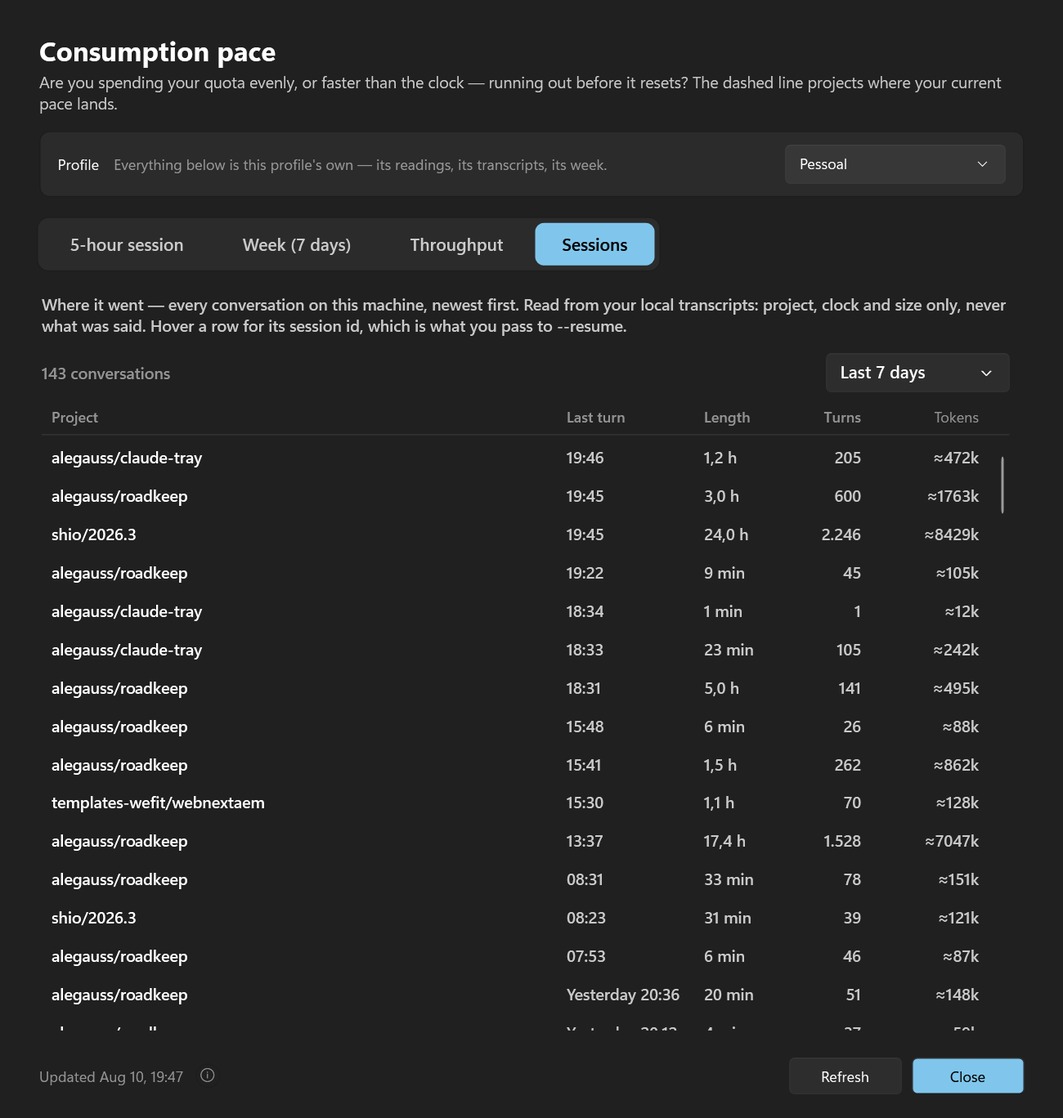
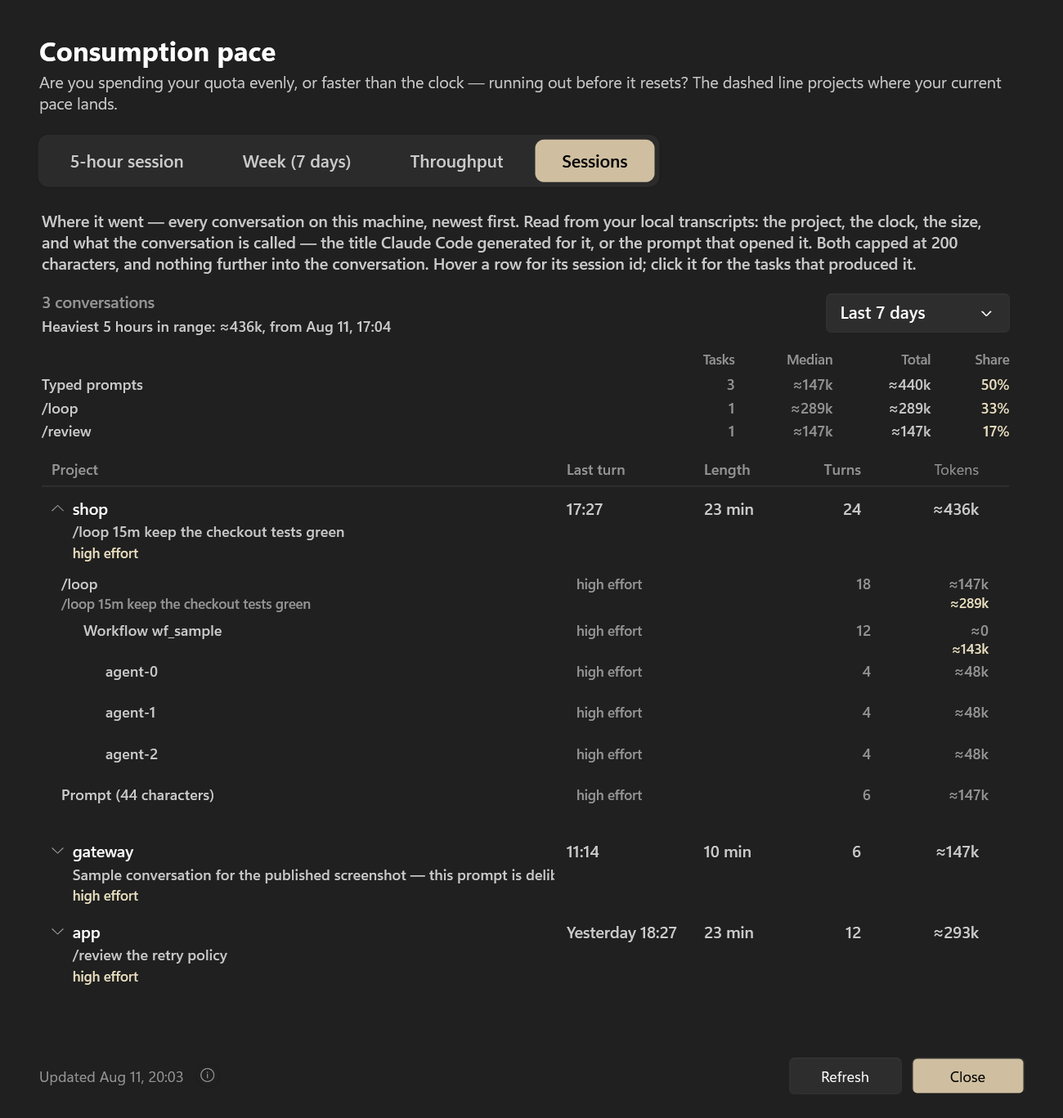
fix: a published shot of the Sessions pane comes from an invented tree, not from this machine (T335)
- fix: ensure that published screenshots of the Sessions pane are generated from a synthetic tree to avoid exposing real user prompts.
- add a new `SessionFixture` that creates a controlled environment for the Sessions pane, ensuring all data is invented and not tied to any actual user sessions.
- update the `CHANGELOG` and `IMPROVEMENTS` documentation to reflect the changes made for T335, clarifying the need for synthetic data in published captures.
- modify the `StatisticsPage` and related components to utilize the new fixture, ensuring that the correct synthetic data is displayed during captures.
- implement checks to verify that the published captures are indeed generated from the synthetic data, preventing any real user data from being included in public repositories.

diff --git a/src/Usage/SessionFixture.cs b/src/Usage/SessionFixture.cs
@@ -1,0 +1,135 @@
+namespace ClaudeTray;
+
+/// <summary>
+/// A synthetic <c>projects/</c> tree for the Sessions pane, so a published screenshot of it is a
+/// picture of invented work and never of somebody's own (T335).
+///
+/// <para><b>Why this exists at all.</b> <c>--capture-stats</c> renders that pane from the monitored
+/// profile, and since T334 the pane carries the opening prompt of every conversation. So the one
+/// command that produces a screenshot for <c>README.md</c> and the published page produced one holding
+/// this machine's real prompts, into a public repository. §I.1's amendment permits the prompt <em>on
+/// the user's own screen</em>; it says nothing about a picture of that screen in a git history, which
+/// is a different promise and a worse one to break — a screenshot cannot be un-published.</para>
+///
+/// <para>The precedent is <see cref="AccountFixture"/>, written for exactly this shape of problem: a
+/// published shot of the System page would carry this machine's login, so it is taken over a fixture
+/// instead. The rule both follow is that the fixture must be the <b>easy</b> path, not the careful
+/// one — nothing can check whether somebody committed a PNG anyway.</para>
+///
+/// <para>What it puts on screen is chosen to exercise the pane rather than to look tidy: several
+/// projects so the list is worth sorting, a fan-out under one conversation so a row folds its agents
+/// in, both task kinds so the by-kind table has more than one row, and one prompt longer than
+/// <see cref="SessionIndex.PromptChars"/> so the truncation is visible rather than assumed.</para>
+/// </summary>
+internal static class SessionFixture
+{
+    /// <summary>Somewhere the user's name is not in the path, because these screenshots get published —
+    /// the same question <see cref="ContextFixture"/> and <see cref="AccountFixture"/> ask.</summary>
+    public static string Root => Path.Combine(SampleRoot.For("ClaudeTray-sample"), "sessions", "projects");
+
+    /// <summary>Obviously invented, and obviously not a real ask: a reader of the screenshot should never
+    /// wonder whether they are looking at somebody's actual work.</summary>
+    private const string Long =
+        "Sample conversation for the published screenshot — this prompt is deliberately longer than the " +
+        "two hundred characters the index keeps, so the row it produces shows the truncation working " +
+        "rather than leaving anyone to take it on trust from the documentation alone.";
+
+    /// <summary>Build the tree and return the <c>projects/</c> directory to read. Rebuilt on every call,
+    /// so a stale fixture can never be the thing that got photographed.</summary>
+    public static string Build(DateTime nowUtc)
+    {
+        if (Directory.Exists(Root))
+            try { Directory.Delete(Root, recursive: true); } catch { /* rebuilt below anyway */ }
+        Directory.CreateDirectory(Root);
+
+        // Deterministic clocks, counted back from "now" so the pane's relative times ("Yesterday
+        // 14:05") render the way they will for a reader rather than as a fixed date in the past.
+        DateTime t0 = nowUtc.AddHours(-3);
+
+        Session("D--Sample-web-shop", "sample-web-shop", t0, new[]
+        {
+            Ask("/loop", "15m keep the checkout tests green"),
+            Ask("", "Add a currency formatter to the cart summary"),
+        }, fanOut: true);
+
+        Session("D--Sample-api-gateway", "sample-api-gateway", nowUtc.AddHours(-9), new[]
+        {
+            Ask("", Long),
+        });
+
+        Session("D--Sample-notes-app", "sample-notes-app", nowUtc.AddDays(-1).AddHours(-2), new[]
+        {
+            Ask("/review", "the retry policy"),
+            Ask("", "Why does the sync run twice on resume?"),
+        });
+
+        return Root;
+    }
+
+    private static (string Command, string Text) Ask(string command, string text) => (command, text);
+
+    /// <summary>One conversation: a person-ask, an answer, and — where asked for — a fan-out written
+    /// under the session's own folder, which is the layout <see cref="TranscriptTail.Locate"/> reads.</summary>
+    private static void Session(string slug, string name, DateTime start,
+                                (string Command, string Text)[] asks, bool fanOut = false)
+    {
+        string dir = Path.Combine(Root, slug);
+        Directory.CreateDirectory(dir);
+        string session = $"sample-{name}";
+        var lines = new List<string>();
+        DateTime at = start;
+
+        foreach ((string command, string text) in asks)
+        {
+            // A slash command is not "text that starts with /": the harness writes its own
+            // <command-name> markup and that tag is what the ask reader keys on, so a fixture that
+            // typed the slash would produce a table with no command row in it — which is exactly what
+            // the check reported before this line was right.
+            lines.Add(User(at, command.Length > 0
+                ? $"<command-name>{command}</command-name><command-args>{text}</command-args>"
+                : text));
+            at = at.AddMinutes(1);
+            for (int i = 0; i < 6; i++)
+            {
+                lines.Add(Assistant(at, $"{session}-{lines.Count}", 3_500 + i * 900, name));
+                at = at.AddMinutes(2);
+            }
+        }
+        File.WriteAllLines(Path.Combine(dir, session + ".jsonl"), lines);
+
+        if (!fanOut) return;
+
+        // Agents file under <slug>/<session>/wf_.../<agent>.jsonl — their spend folds into the row,
+        // which is the behaviour a one-row-per-conversation list is claiming on screen.
+        string flow = Path.Combine(dir, session, "wf_sample");
+        Directory.CreateDirectory(flow);
+        for (int a = 0; a < 3; a++)
+        {
+            var agent = new List<string>();
+            DateTime t = start.AddMinutes(4 + a);
+            for (int i = 0; i < 4; i++)
+            {
+                agent.Add(Assistant(t, $"{session}-agent{a}-{i}", 2_200 + i * 400, name));
+                t = t.AddMinutes(1);
+            }
+            File.WriteAllLines(Path.Combine(flow, $"agent-{a}.jsonl"), agent);
+        }
+    }
+
+    private static string Stamp(DateTime t) =>
+        t.ToUniversalTime().ToString("yyyy-MM-ddTHH:mm:ss.fffZ",
+                                     System.Globalization.CultureInfo.InvariantCulture);
+
+    private static string User(DateTime t, string text) =>
+        $"{{\"type\":\"user\",\"timestamp\":\"{Stamp(t)}\",\"message\":{{\"role\":\"user\"," +
+        $"\"content\":{System.Text.Json.JsonSerializer.Serialize(text)}}}}}";
+
+    private static string Assistant(DateTime t, string id, int output, string name) =>
+        $"{{\"type\":\"assistant\",\"timestamp\":\"{Stamp(t)}\",\"requestId\":\"{id}\"," +
+        $"\"effort\":\"high\",\"cwd\":\"D:\\\\Sample\\\\{name}\"," +
+        $"\"message\":{{\"id\":\"msg-{id}\",\"model\":\"claude-sample-5\",\"usage\":{{" +
+        $"\"input_tokens\":{output / 4},\"output_tokens\":{output}," +
+        $"\"cache_creation_input_tokens\":{output * 3}," +
+        $"\"cache_creation\":{{\"ephemeral_1h_input_tokens\":{output * 3},\"ephemeral_5m_input_tokens\":0}}," +
+        $"\"cache_read_input_tokens\":{output * 12}}}}}}}";
+}

diff --git a/src/Cli/SelfTestCli.cs b/src/Cli/SelfTestCli.cs
@@ -249,6 +249,12 @@ internal static class SelfTestCli
         Section("kinds — which kind of work ate the range (Block AK)");
         Kinds();
 
+        Section("fixture — the Sessions pane a published shot may come from (Block AI)");
+        SessionsFixture();
+
+        Section("dates — a month name in the language the window is in (Block AI)");
+        DateCulture();
+
         Section("anchoring — a transcript reached by a route nobody walked (Block AK)");
         Anchoring();
 
@@ -6943,6 +6949,81 @@ internal static class SelfTestCli
         Check("a command is labelled by its own name and a kind by the string table",
               WorkKinds.Label(loop) == "/loop" &&
               WorkKinds.Label(prompts) != "stats.kind.prompt", WorkKinds.Label(prompts));
+    }
+
+    /// <summary>A month name formatted through whatever culture the machine happens to run under, in a
+    /// window the user asked for in another language. Caught by looking at a published capture — an
+    /// English shot reading <c>ago. 11</c> — which no assertion here was pointed at (T335).</summary>
+    private static void DateCulture() =>
+        Repo("every date the window formats goes through the UI language's culture", root =>
+        {
+            string ui = Path.Combine(root, "src", "Ui");
+            var bare = new List<string>();
+            foreach (string path in Directory.GetFiles(ui, "*.cs", SearchOption.AllDirectories))
+            {
+                string code = CodeOf(File.ReadAllText(path));
+                foreach (Match m in Regex.Matches(code, @"ToString\(""[^""]*(MMM|dddd|ddd)[^""]*""(?<arg>[^)]*)\)"))
+                    if (!m.Groups["arg"].Value.Contains("Culture", StringComparison.Ordinal))
+                        bare.Add($"{Path.GetFileName(path)}: {m.Value}");
+            }
+            Check($"no month or weekday is formatted in the machine's own culture ({bare.Count} bare)",
+                  bare.Count == 0,
+                  $"{string.Join("; ", bare)} — a window in one language printing a month in another is " +
+                  "what a published screenshot showed; pass L.DateCulture");
+        }, "src");
+
+    /// <summary>
+    /// T335. The fixture a published shot of the Sessions pane comes from, and the two things about it
+    /// that a check can hold.
+    ///
+    /// <para><b>What it cannot hold</b>, said first because it decides what the rest is worth: nothing
+    /// here can tell whether somebody committed a PNG taken from their own profile. That is why the
+    /// fixture has to be the <em>easy</em> path — a named preview both flags already read — rather than
+    /// a careful one. What is checkable is that the easy path exists, reads its invented tree, and
+    /// produces a pane worth photographing.</para>
+    ///
+    /// <para>So: the preview exists and is capturable, and the tree it builds exercises the pane rather
+    /// than merely populating it — several conversations, a fan-out folded into its parent row, both
+    /// task kinds so the by-kind table has more than one row, and a prompt past the cap so the
+    /// truncation is visible in the picture instead of taken on trust.</para>
+    /// </summary>
+    private static void SessionsFixture()
+    {
+        // The variant a published capture is supposed to use. A published shot cannot come from a
+        // fixture that --capture-stats refuses to render.
+        if (!Check("the Sessions pane has a preview a capture can use",
+                   StatsPreviews.Resolve(new[] { "sessions" }, capturing: true) is { } c && c.Variant.Sessions,
+                   "no capturable 'sessions' preview — a published shot would have to come from the real pane"))
+            return;
+
+        string root = SessionFixture.Build(new DateTime(2026, 3, 2, 12, 0, 0, DateTimeKind.Utc));
+        IReadOnlyList<SessionRow> rows = SessionIndex.Load(null, root);
+
+        if (!Check($"it reads as a list of conversations ({rows.Count})", rows.Count >= 3,
+                   "fewer than three rows is not a list worth a screenshot"))
+            return;
+
+        // A fan-out folded into the row that spawned it is the claim the pane makes on screen, so the
+        // picture has to contain one.
+        Check("one conversation folds a fan-out into its own row",
+              rows.Any(r => r.Agents > 0), string.Join(", ", rows.Select(r => $"{r.Name}:{r.Agents}")));
+
+        // Both kinds, or the by-kind table under the list is one row and shows nothing.
+        IReadOnlyList<WorkGroup> kinds = WorkKinds.Of(rows.SelectMany(r => r.Tasks ?? Array.Empty<TaskRow>()));
+        Check("and the by-kind table has a command and a typed prompt to compare",
+              kinds.Any(g => g.IsCommand) && kinds.Any(g => g.Kind == nameof(TaskKind.Prompt)),
+              string.Join(", ", kinds.Select(g => $"{g.Kind}/{g.Name}")));
+
+        // The truncation is a claim the README makes about this pane; the shot should show it working.
+        // At the cap, not exactly it: the stored form carries the mark that says it was cut.
+        Check($"a prompt long enough to be truncated is on screen ({SessionIndex.PromptChars})",
+              rows.Any(r => r.Prompt.Length >= SessionIndex.PromptChars),
+              string.Join(", ", rows.Select(r => r.Prompt.Length)));
+
+        // And the whole point: nothing in the picture came from a real profile.
+        Check("every row in it is invented, not this machine's",
+              rows.All(r => r.Session.StartsWith("sample-", StringComparison.Ordinal)),
+              string.Join(", ", rows.Select(r => r.Session).Where(s => !s.StartsWith("sample-"))));
     }
 
     /// <summary>One assistant line in the shape the transcript readers parse — a timestamp, a usage

diff --git a/src/Ui/StatisticsPage.Sessions.cs b/src/Ui/StatisticsPage.Sessions.cs
@@ -74,7 +74,7 @@ internal partial class StatisticsPage
         System.Threading.Tasks.Task.Run(() =>
         {
             IReadOnlyList<SessionRow> rows;
-            try { rows = SessionIndex.Load(profile); }
+            try { rows = SessionIndex.Load(profile, PreviewSessionsRoot); }
             catch { rows = Array.Empty<SessionRow>(); }   // an unreadable tree is an empty list, not a crash
             Dispatcher.BeginInvoke(() =>
             {
@@ -114,7 +114,7 @@ internal partial class StatisticsPage
         System.Threading.Tasks.Task.Run(() =>
         {
             IReadOnlyList<TaskNode> tasks;
-            try { tasks = SessionTasks.For(model, profile); }
+            try { tasks = SessionTasks.For(model, profile, PreviewSessionsRoot); }
             catch { tasks = Array.Empty<TaskNode>(); }   // an unreadable transcript closes the row, never crashes
             var lines = new List<TaskLine>();
             foreach (TaskNode t in tasks) Flatten(t, 0, lines);
@@ -167,7 +167,7 @@ internal partial class StatisticsPage
         System.Threading.Tasks.Task.Run(() =>
         {
             IReadOnlyList<TaskNode> tasks;
-            try { tasks = SessionTasks.For(model, profile); }
+            try { tasks = SessionTasks.For(model, profile, PreviewSessionsRoot); }
             catch { tasks = Array.Empty<TaskNode>(); }
             var lines = new List<TaskLine>();
             foreach (TaskNode t in tasks) Flatten(t, 0, lines);
@@ -244,7 +244,9 @@ internal partial class StatisticsPage
             PeakWindow peak = HeaviestWindow.Of(minutes);
             if (!peak.Found) return "";
 
-            string when = peak.StartLocal.ToString("MMM d, HH:mm");
+            // Through the UI language's culture, not the machine's: an English window rendering a
+            // Portuguese month is what the published capture caught this doing (T335).
+            string when = peak.StartLocal.ToString("MMM d, HH:mm", L.DateCulture);
             string head = L.T("stats.sessions.peak", TokenEstimate.Format(
                 (int)Math.Min(int.MaxValue, peak.Tokens)), when);
 

diff --git a/src/Cli/StatsPreviews.cs b/src/Cli/StatsPreviews.cs
@@ -39,6 +39,7 @@ internal static class StatsPreviews
         bool GhostPieces = false,
         bool Thin = false,
         bool MethodOpen = false,
+        bool Sessions = false,
         bool Error = false,
         Func<long, PaceReport>? Report = null)
     {
@@ -55,6 +56,12 @@ internal static class StatsPreviews
     private static readonly Variant[] All =
     {
         new("", "the default: a 5h session burning ahead of pace, a week comfortably on track", Sample),
+
+        // The Sessions pane off a synthetic tree. This is the variant a *published* shot of that pane
+        // must come from: the real one carries the opening prompt of every conversation on the machine,
+        // and a screenshot cannot be un-published (T335).
+        new("sessions", "the Sessions pane over an invented projects tree — the one to publish, because " +
+                        "the real pane carries this machine's own prompts", Sample, Sessions: true),
 
         new("idle", "the not-using-Claude state: a fresh 5h session at 0%, a week still carrying usage, " +
                     "so the window opens on the weekly tab",
@@ -217,6 +224,9 @@ internal static class StatsPreviews
             PreviewDemoGhostPieces = c.Variant.GhostPieces,
             PreviewDemoThin = c.Variant.Thin,
             PreviewMethodOpen = c.Variant.MethodOpen,
+            // Built here rather than in the page: the fixture is a tree on disk, and the page should
+            // not learn how to make one.
+            PreviewSessionsRoot = c.Variant.Sessions ? SessionFixture.Build(DateTime.UtcNow) : null,
         };
         // A whole hand-built report replaces the computed one, which can only happen once the page has
         // loaded — the same order the interactive preview used before this table existed.

diff --git a/src/Ui/StatisticsPage.xaml.cs b/src/Ui/StatisticsPage.xaml.cs
@@ -127,6 +127,10 @@ internal partial class StatisticsPage : System.Windows.Controls.UserControl
     /// looked at. See <c>--stats method</c>.</summary>
     internal bool PreviewMethodOpen { get; init; }
 
+    /// <summary>A synthetic <c>projects/</c> tree the Sessions pane reads instead of the profile's, for
+    /// a capture that gets published (T335). Null everywhere else, which is the real pane.</summary>
+    internal string? PreviewSessionsRoot { get; init; }
+
     /// <summary>Which profile this window is reporting on (T128). Everything it draws — the charts, the
     /// projection, the activity shape, the ghost week and the live throughput — comes from this profile's
     /// own stores and its own transcripts.</summary>

diff --git a/src/Ui/SessionListRow.cs b/src/Ui/SessionListRow.cs
@@ -90,7 +90,7 @@ public sealed class SessionListRow : INotifyPropertyChanged
             ? when.ToString("HH:mm")
             : when.Date == nowLocal.Date.AddDays(-1)
                 ? L.T("stats.sessions.yesterday", when.ToString("HH:mm"))
-                : when.ToString("MMM d, HH:mm");
+                : when.ToString("MMM d, HH:mm", L.DateCulture);
         Duration = Span(row.Seconds);
         Turns = Nums.Of(row.Calls, "N0");
         // Cache reads are out, as everywhere else a token figure is shown here: they are two orders of

diff --git a/CHANGELOG.md b/CHANGELOG.md
@@ -641,6 +641,7 @@
 - **T312** — Every doc comment is checked against the member under it, in one file walk with no compiler: a run of /// lines may hold at most one summary, and must be followed by a declaration rather than by a blank line. Both directions of the same edit. It found seven live instances on its first run, all fixed here - MeasuredProfile had lost its summary to a record, one Discover overload carried the other one text, and four checks in --selftest had swapped theirs. Two of the seven were written in this session by the author of the check: T291 put a new member above Overflow and took its documentation, and T312 did the same to ObservingTray while adding this. That rate is the argument the design made, demonstrated on itself. One hole is named rather than closed: an UNDOCUMENTED member inserted directly under a comment adopts it silently - one summary, no blank line - and telling that apart needs a parser, which this deliberately does not use.
 - **T314** — Every key the sources name is now held against the table that has to hold it, which is the one direction the parity check cannot look: it loads en and compares the other four to it, so en is the source of truth for what exists and every failure it can find is a translation gap - while an English gap has the fallback behind it and nothing else. Measured on the tree as it stands: 564 distinct keys, 488 named in code and 231 in markup. Injected before being trusted - a misspelled ternary branch in StatisticsPage and a misspelled {local:Loc} in ContextPage.xaml made it red and named both keys with the file each came from, and the five-language parity check stayed green through that same run, which is exactly the gap the task was filed on. The scan reads the whole first argument of L.T rather than the literal after the opening paren, because 67 of the 564 are written as a ternary branch or a switch arm - the legend's among them, which is the shape T313 introduced - and a regex anchored on the opening literal reaches only 497 of them; it stops at the first comma, so a format argument is not mistaken for a key. Two limits are numbers in its own summary rather than a later surprise: 7 of 447 calls build their key at run time and are invisible here, and it is a subset check in one direction only, since a key in en that no call site names is dead weight rather than a defect on screen. The walk itself is asserted against nine synthetic argument forms, each followed by a literal that must not be collected - a terminator read wrong runs past the closing paren and reports every string after it - and breaking the verbatim terminator, then the markup pattern, was watched go red before either was put back.
 - **T347** — SessionIndex.cs is a text file again, and a check keeps every source file that way. The separator it joins its cache key on was right as a value - a byte no path can contain is what an unambiguous key separator should be - and wrong as a way to write it: the source carried the literal byte instead of the C# escape that produces one, so the string is unchanged at run time and the file is no longer binary to git. What that byte cost was entirely outside the running program. Git classifies a file containing a NUL as binary, so it had no line diff, ever: T330's nine-line edit to it was reported as 1141 +++---, the sum of both versions, and a reviewer saw a file replaced rather than what changed in it. blame and add -p degrade the same way, and this repository's own grep answered binary file matches and nothing else, which cost two detours in the session that found it. It was the only one of the 92 source files under src that carried one. The check is byte-wise and deliberately not text, for the same reason the .ps1 encoding check reads bytes: the question is what a decoder does with the file, and reading it as text first answers with whichever decoder the check happened to use. Putting the byte back was watched fail before the green was trusted, and it named the file and the count. One artefact to expect once: this commit's own diff of that file still reads as a whole-file rewrite, because the blob it is compared against is the binary one; from the next change onward it diffs by line like its neighbours.
+- **T335** — A published shot of the Sessions pane now comes from an invented tree, and the shot in the repository has been retaken from it. --capture-stats renders that pane from the monitored profile, and since T334 the pane carries the opening prompt of every conversation, so the one command that makes a README screenshot made one holding this machine's real prompts - into a public repository, where a screenshot cannot be un-published. The fixture follows AccountFixture, which exists for the same reason on the System page: several conversations so the list is worth sorting, a fan-out under one of them so a row folds its agents in, both task kinds so the by-kind table has more than one row, and one prompt past the 200-character cap so the truncation is visible in the picture rather than taken on trust. It is reached as --stats sessions and --capture-stats <out> sessions, one row of the table both flags already read, because the fixture has to be the easy path rather than the careful one - nothing can check whether somebody committed a PNG anyway. Five assertions hold what is checkable: that the preview exists and is capturable, that it reads as a list, that a fan-out folds in, that the table has a command and a typed prompt to compare, that a truncated prompt is on screen, and that every row is invented. Two of them failed first and both were the fixture being wrong about the app rather than the other way round: a slash command is not text beginning with a slash but the harness's own command-name markup, so the by-kind table came back with no command row in it, and the stored prompt sits at the cap plus the mark that says it was cut. Looking at the capture then found what no assertion was pointed at: the shot came out reading ago. 11 - a Portuguese month in an English window - because two date formats went through the machine's culture instead of the UI language's. Both now pass L.DateCulture, one of them a line this task did not write, and a source scan over src/Ui keeps every month and weekday name that way; putting a bare format back was watched name the file and the call. The published PNG is retaken in English from the fixture, and the three other published shots it would otherwise have overwritten were restored rather than left in Portuguese.
 
 ## Block AJ — Working here — the repo's own docs and flags
 

diff --git a/.claude/skills/file-map/SKILL.md b/.claude/skills/file-map/SKILL.md
@@ -67,6 +67,7 @@ One file per flag family; `Main` dispatches, these run and exit.
 | `src/Usage/ActivityShape.cs` | The weekly projection spent along that shape: calibrated per *measured active hour*, flat through usually-idle stretches, sloped through working ones. Returns null (→ the old straight line) when the profile is thin or the window can't be calibrated. Weekly only. |
 | `src/Usage/TranscriptTail.cs` | Byte-level tail over `~/.claude/projects/**/*.jsonl`: watcher + 3s floor sweep, a per-file cursor that only advances past a newline, and de-duplication by `requestId`. The watcher's paths are the sweep's **work list**; the whole tree is walked only every 30s (`ReconcileMs`), or on every sweep when there is no watcher. Reports each assistant turn within ~250ms for the cost of the appended bytes. `--tail`. |
 | `src/Usage/LiveRate.cs` | The rolling tokens/s over that tail: an age-weighted 60s window (triangular kernel, so a pause decays from the moment it starts) with attack-only smoothing. Caller-driven `Tick` — no timer, so a hidden window costs nothing. Also serves that rate **as a series** (`RateHistory`/`TypeRates`/`Projects(n)`: the same kernel at every second, so the newest point equals the headline, plus a 3τ smoothing warm-up before the first reported point so a second's value never changes after it has been drawn) and each project's **sticky slot** — fixed colour/order while it has anything in the window. Sits beside `WindowPace.TokensPerSecond`; neither is quota. `--live`. |
+| `src/Usage/SessionFixture.cs` | A synthetic `projects/` tree for the **Sessions pane**, so a published screenshot of it is a picture of invented work and never of somebody's own (T335). `--capture-stats` renders that pane from the monitored profile and the pane carries each conversation's opening prompt, so the command that makes a README shot would otherwise put real prompts in a public git history — and a screenshot cannot be un-published. Same shape as `AccountFixture`: several projects, a fan-out under one conversation, both task kinds, and one prompt past `PromptChars` so the truncation is visible rather than assumed. Reached by `--stats sessions` / `--capture-stats <out> sessions`. |
 | `src/Usage/SessionIndex.cs` | One pass over a profile's `projects/**/*.jsonl` producing **one row per conversation** — the unit every other reader here aggregates away (window, project, hour). Per row: slug + display name, first and last turn, calls, the four token classes, every model that answered, and how many transcripts the fan-out wrote. Three properties it exists to hold: a fan-out folds into the session that spawned it (via `TranscriptTail.Locate`), one response is one call however many content-block lines carried it, and it reads *a profile's* tree. A scan, not a tail — `TranscriptTail` answers "what is happening now" from appended bytes; this answers "what did that session cost" from the whole file. Cached per transcript on T92's path+size+mtime key in the shared `session-index.json`; measured 4.5s cold over 1.2 GB, 117ms warm. `--sessions`. |
 | `src/Usage/EffortMix.cs` | The effort ladder and what a session or task ran at, as a **mix** rather than a winner: `low`/`medium`/`high`/`xhigh`/`max` in that order — which is not alphabetical, and the reason the scale is spelled in one place — plus the merge two readers fold call counts with, and the one-line rendering (a single level is its own name; several become shares, so the dear minority survives). A level the ladder does not name is kept and printed as the transcript spelled it. Labels come from `stats.effort.*`, so a level nobody here has run is still legible on its first sighting. |
 | `src/Usage/SessionTasks.cs` | One session cut into the **tasks** that produced it, with the fan-out each caused hanging under it: task → workflow → agent, each node carrying its own cost beside its subtree's. A task begins at a person-ask and ends at the next one; telling a person-ask from the many `user` lines that are the harness writing about itself is `SessionIndex.TryReadPersonAsk`'s job, shared so the two readers cannot disagree — and a mid-turn message is not a `user` line at all but an `attachment` of type `queued_command`, which is where every one of them lives. Turns predating the first ask become one *inherited* node, or a resumed session's spend vanishes. On demand and uncached: a session is a handful of files. `--sessions <id>`. |

diff --git a/IMPROVEMENTS.md b/IMPROVEMENTS.md
@@ -456,33 +456,6 @@ of it — which is three lines beside `FillDemoOverSpell` plus its row in the ca
 doc. What it buys is the one question an assertion cannot answer: whether a clay mark floating a
 centimetre above the line it belongs to reads as *the header said so* or as a drawing bug.
 
-### XX.32 A published shot of the Sessions pane must come from a fixture (T335)
-
-`--capture-stats` renders the Sessions pane from the monitored profile, and since T334 that pane
-carries the opening prompt of every conversation. So the one command that produces a screenshot for
-`README.md` and `docs/index.html` now produces one holding this machine's real prompts, and the
-repository is public.
-
-The precedent is already here and was written for exactly this: `--capture-settings System` renders
-this machine's login, so a published shot of it is taken over `AccountFixture` instead, and the
-`preview-ui` skill says so in its own section. §I.1's amendment permits the prompt **on the user's
-own screen**; it says nothing about a picture of somebody's screen in a git history, which is a
-different promise and a worse one to break — a screenshot cannot be un-published.
-
-The consequence is visible today: the published `docs/statistics-sessions.png` is the pre-T334
-capture, so the README describes a column its own screenshot does not show. That is the honest state
-of it, and it is the state this task closes.
-
-**What it needs.** A session fixture in the shape `ContextFixture` and `AccountFixture` already
-establish: a synthetic `projects/` tree, deterministic clocks, a fan-out under one conversation,
-obviously invented prompts, and one row long enough to exercise the truncation. Then a modifier on
-the Statistics preview table — the one `--stats` and `--capture-stats` both read — so a published
-capture comes from the fixture while a capture of the real thing stays available for looking at.
-
-The check `--selftest` can hold is the one that matters and it is cheap: a published capture of this
-pane must not be produced from a real profile. What it cannot check is whether somebody committed a
-PNG anyway, which is why the fixture has to be the easy path and not the careful one.
-
 ## XXI Numbers in prose — one convention, or a stated split (Block G)
 
 Two surfaces of this app answer the same question differently, and T167's sweep reaches only one of

diff --git a/ROADMAP.md b/ROADMAP.md
@@ -63,7 +63,6 @@
 
 ## Block AI — Verification — the checks that prove a change
 
-- 📋 **T335** (deps: —) **a published capture of the Sessions pane would carry this machine's real prompts to GitHub** — --capture-stats renders that pane from the monitored profile, so the command that makes a README screenshot now makes one holding real prompts - and a screenshot cannot be un-published. → §XX.32
 - 📋 **T340** (deps: T288 ✅) **a state's sentence can be squeezed out of the tooltip in one language, and only a test written for that state notices** — T222, T302 and T288 each lost a sentence to the 127-char cap in a different language, and each was locked shut by a test written for that one key. → §LXVIII
 - 📋 **T343** (deps: T298 ✅) **the sessions pane is still captured mid-scan, because its wait proceeds at the deadline where the report's now refuses** — Two waits in one capture answer one deadline differently: the report refuses and writes nothing, the sessions scan proceeds and announces its placeholder. → §LXXI
 - 📋 **T344** (deps: T305 ✅) **two more stores write without consulting the observing gate: the reset log appends and the profile migration moves files** — The reading that found T305 finds two more, and one moves files rather than appending - so the list of call sites needs an owner, not a fourth fix. → §LXXII
